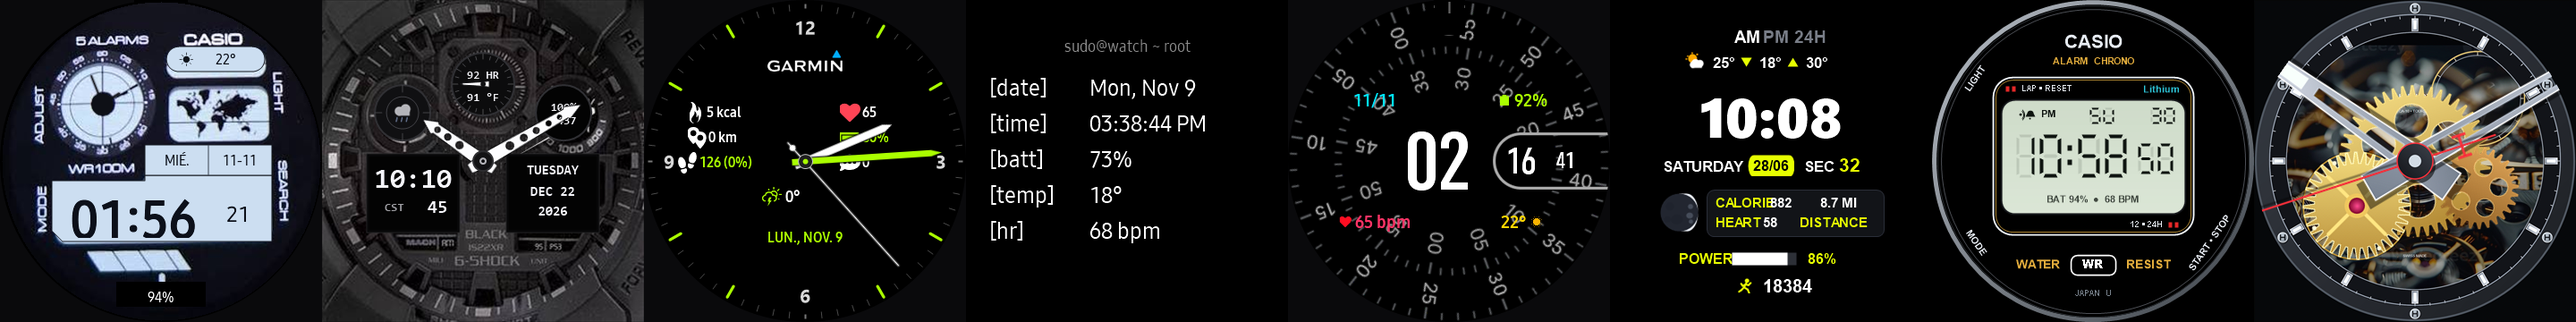
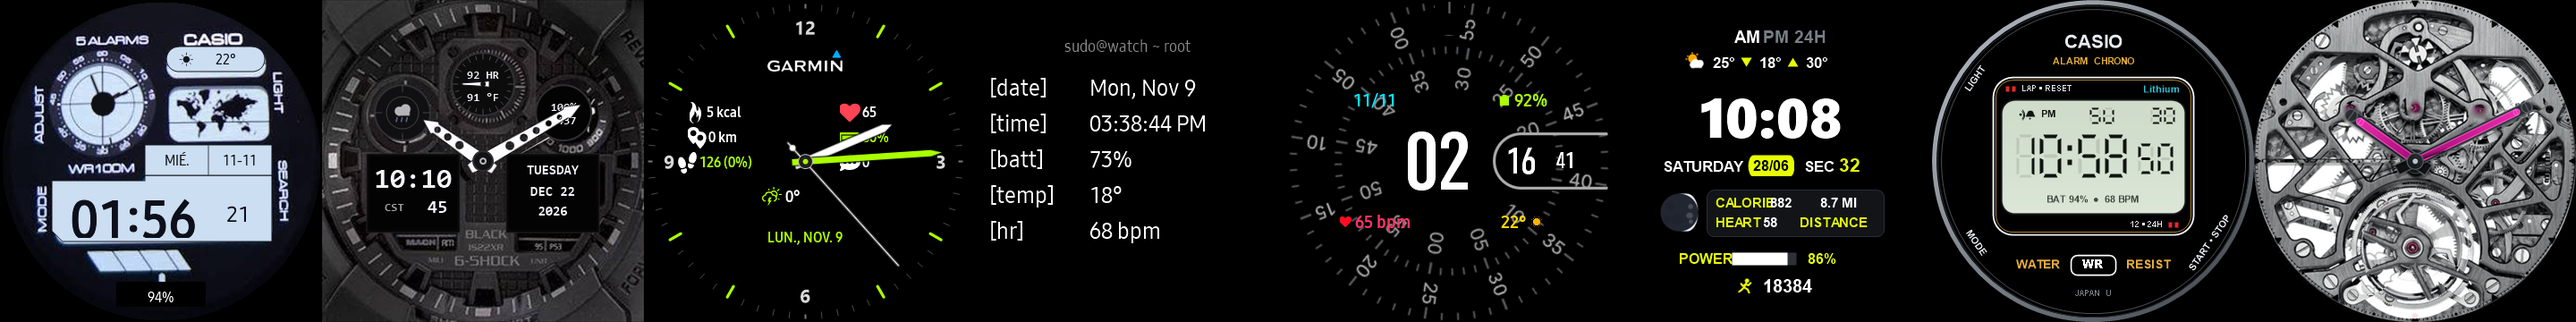
feat(hublot): authentic Hublot Classic Fusion Tourbillon Skeleton with real-time 60fps tourbillon and pure AOD hands

Changed region(s): [[0.875, 0.0, 1.0, 1.0]]

diff --git a/README.md b/README.md
@@ -92,19 +92,18 @@ Diseño ultralimpio sobre fondo negro puro AMOLED (`#000000`) con píxeles físi
 
 ---
 
-### 8. Hublot Big Bang Skeleton (Mecánica Viva en Tiempo Real)
+### 8. Hublot Classic Fusion Tourbillon Skeleton (Mecánica Viva en Tiempo Real)
 - **Directorio:** [`tizen-native-rolex-skeleton/`](tizen-native-rolex-skeleton/)
 - **Slot Nativo:** `com.samsung.watchface-noblesse-a1`
 - **Nombre en Reloj:** `Hublot Skeleton`
 - **Características:**
-  - **Bisel Hublot Big Bang con 6 Tornillos en H:** Bisel de titanio satinado con los 6 icónicos tornillos H a las 12, 2, 4, 6, 8 y 10 horas.
-  - **Maquinaria Ultra Elaborada:** Tapiz mecánico de alta densidad con decenas de engranajes reales, puentes satinados de titanio con biselado espejo, barrilete con muelle real en espiral visible, sub-esfera calada a las 2:30 y rubíes en chatones de oro.
-  - **3 Engranajes Móviles Reales en Tiempo Real:**
-    - **Rueda de Balance / Tourbillon (7:30):** Volante de inercia con 4 brazos calados, contrapesos perimetrales y rubí central que gira suavemente a 60 fps sincronizado con el escape (`sweep60s`).
-    - **Rueda Intermedia de Segundos (4:30):** Engranaje de bronce esqueletizado de 28 dientes que contra-rota continuamente sincronizado con los segundos mecánicos.
-    - **Gran Rueda Central (Eje 180, 180):** Engranaje de 48 dientes de oro fino que rota suavemente con el tren de rodaje de los minutos.
-  - **Manecillas Esqueletizadas Hublot:** Agujas caladas tipo espada en titanio cepillado con puntas de Super-LumiNova, segundero rojo deportivo con contrapeso de la "H" de Hublot a 60 fps y pivote central de cerámica negra.
-  - **Modo AOD (Always-On Display):** Fondo negro puro AMOLED (`#000000`), mostrando **exclusivamente las manecillas con lumen tenue** en la oscuridad absoluta para máxima autonomía.
+  - **Dial Calibre HUB6010 de Titanio Satinado:** Estructura esqueletizada abierta con puentes arácnidos de titanio, tren de rodaje visible, barrilete con motivo "H" a las 12:00 y auténticos rubíes en chatones de oro.
+  - **Tourbillon Funcional en Capas a las 6:00:**
+    - **Pozo Mecánico Profundo:** Cavidad oscura con sombreado de profundidad radial y aro exterior graduado.
+    - **Jaula y Rueda de Balance Giratoria:** Rotación continua a 60 fps en tiempo real sincronizada con el escape mecánico (`source="second.millisecond" animation="sweep60s"`).
+    - **Puente Fijo Superior de Titanio:** Arco de titanio con rubí central montado estáticamente por encima de la jaula giratoria.
+  - **Manecillas Esqueletizadas Magenta Hublot:** Agujas con marco de titanio negro carbón y relleno de Super-LumiNova fucsia/magenta (`#BA1384`), segundero de aguja negra ultra fina de barrido suave a 60 fps y pivote central de titanio oscuro con remache de acero pulido.
+  - **Modo AOD (Always-On Display):** Fondo negro puro AMOLED (`#000000`) con píxeles 100% apagados, mostrando **únicamente las manecillas luminiscentes magenta** para mínima emisión energética.
 
 ---
 
